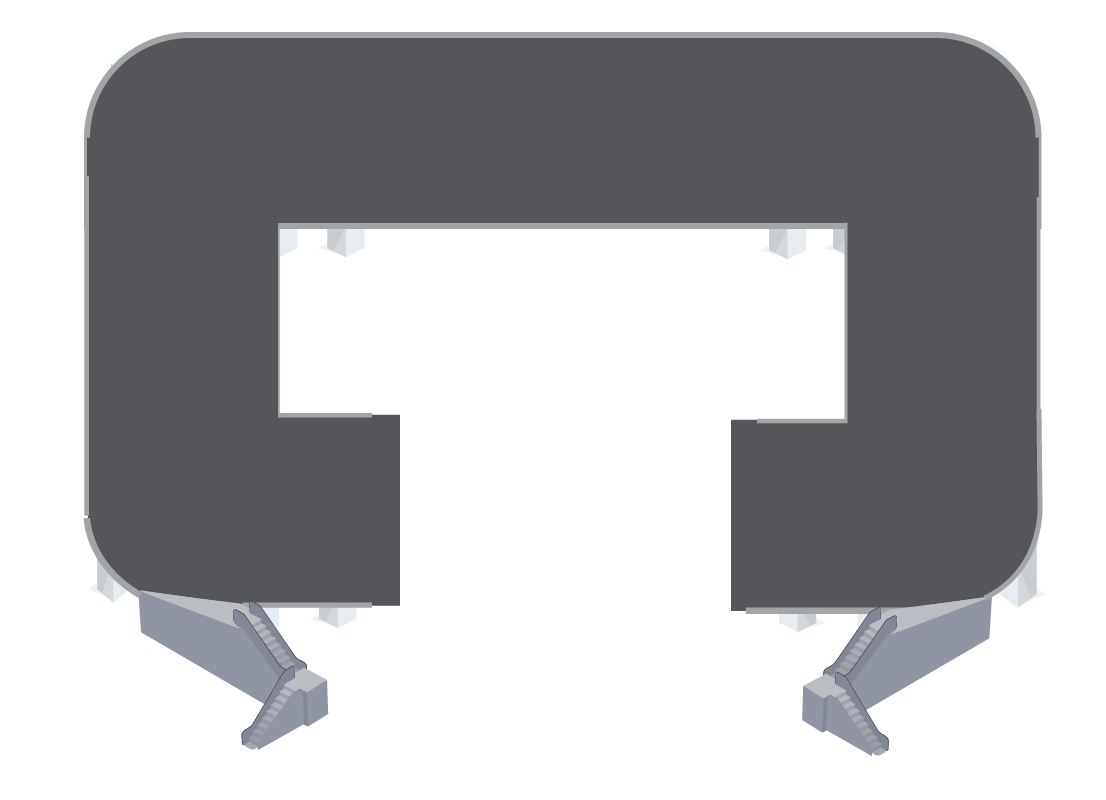
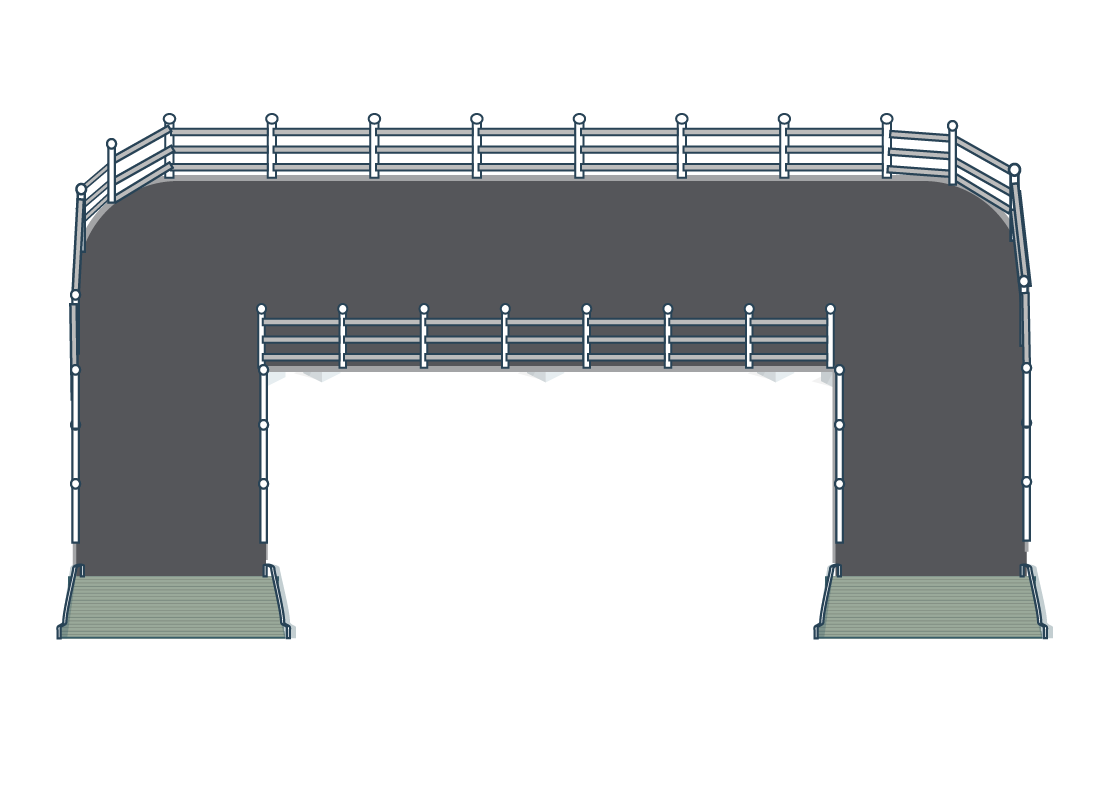
update
new bridge design ,character path on bridge is set

diff --git a/src/components/streets/bridge.js b/src/components/streets/bridge.js
@@ -1,30 +1,43 @@
 //import { Street } from "../street.js";
 import Phaser from "phaser";
+import {getSheetKey } from "../utils/";
 import eventHub from "../vue/eventHub.js";
 import { ETH } from "../config.js";
 import Bus from "../game-objects/bus.js";
+import Person from "../game-objects/person";
+//import { Street } from "../street.js";
 export default class bridge extends Phaser.Scene {
 	constructor(side) {
 		super(side);
         //will soon handle this using constructor so that different types of buses can be created 
-        this.config = ETH;
-        this.ticker = ETH.ticker;
+    //     this.config = ETH;
+    //    this.ticker = ETH.ticker;
        // this.config.busCapacity = 20;
 	}
 
 	init() {
-        
+        // this.myBridgeStreet= new Street(this.config, this.side);
     }
     preload() {}
    async create() {
     this.busFloors = this.add.group();
-    this.myBridge =  this.add.image(950, 500, "BRIDGE");
+    this.myBridge =  this.add.image(965, 500, "BRIDGE");
     eventHub.$on("myScrollData",(mydata)=>{
     this.cameras.main.scrollY=mydata.cameraY;});
+
+    // eventHub.$on("myTestPersonData",(myData)=>{
+    //    this.myPersonData = myData.myPersonData;
+    // });
     
-    this.createmyBridgeBus();
+       setTimeout(() => {
+        console.log(this.myPersonData)
+       this.createPersonOnBridge();
+
+       }, 3000);
+
 
     }
+
 
     customCallback(functionName, position, obj) {
 		let callbackName = position + functionName.charAt(0).toUpperCase() + functionName.slice(1);
@@ -32,6 +45,31 @@ export default class bridge extends Phaser.Scene {
 		this[callbackName](obj);
 		return true;
 	}
+
+
+    createPersonOnBridge() {
+
+        this.myPerson = new Person(this);
+        this.myPerson.setTexture(getSheetKey("person-"),"mailman-0.png");
+        this.myPerson.x = this.myBridge.x;
+        this.myPerson.y = this.myBridge.y;
+        this.myPerson.active = true;
+		this.myPerson.visible = true;
+        //this.myPerson.setLineData("status", null);
+
+        this.myPerson.createPath([this.myBridge.x-350,this.myBridge.y+400,
+            this.myBridge.x-350,this.myBridge.y+200,this.myBridge.x-280,this.myBridge.y-180,
+            this.myBridge.x+250,this.myBridge.y-180,this.myBridge.x+380,this.myBridge.y-150,
+            this.myBridge.x+380,this.myBridge.y+200,this.myBridge.x+380,this.myBridge.y+400,
+
+        
+        ])
+
+        this.myPerson.goAlongPath();
+       
+        this.myPerson.setDepth(1000);
+
+    }
 
     createmyBridgeBus() {
 

diff --git a/src/components/game-objects/person.js b/src/components/game-objects/person.js
@@ -22,6 +22,12 @@ Person.prototype.createPath = function(points){
 	this.curve = new Phaser.Curves.Spline(this.points);
 	this.x = this.curve.getPoint(0).x;
 	this.y = this.curve.getPoint(0).y;
+
+	this.myGraphics = this.scene.add.graphics();
+	this.myGraphics.lineStyle(0,0xffffff,0.5);
+
+	this.curve.draw(this.myGraphics,20);
+
 }
 
 Person.prototype.goAlongPath = function(){

diff --git a/src/components/streets/ethereum.js b/src/components/streets/ethereum.js
@@ -492,6 +492,7 @@ export default class ETHStreet extends Street {
 				//add to line as person
 				this.newPerson(this.lineManager[entry.txData.tx]);
 				this.myDummyData = this.lineManager[entry.txData.tx];
+				//eventHub.$emit("myTestPersonData",{myPersonData:this.myDummyData});
 			}
 		}
 
